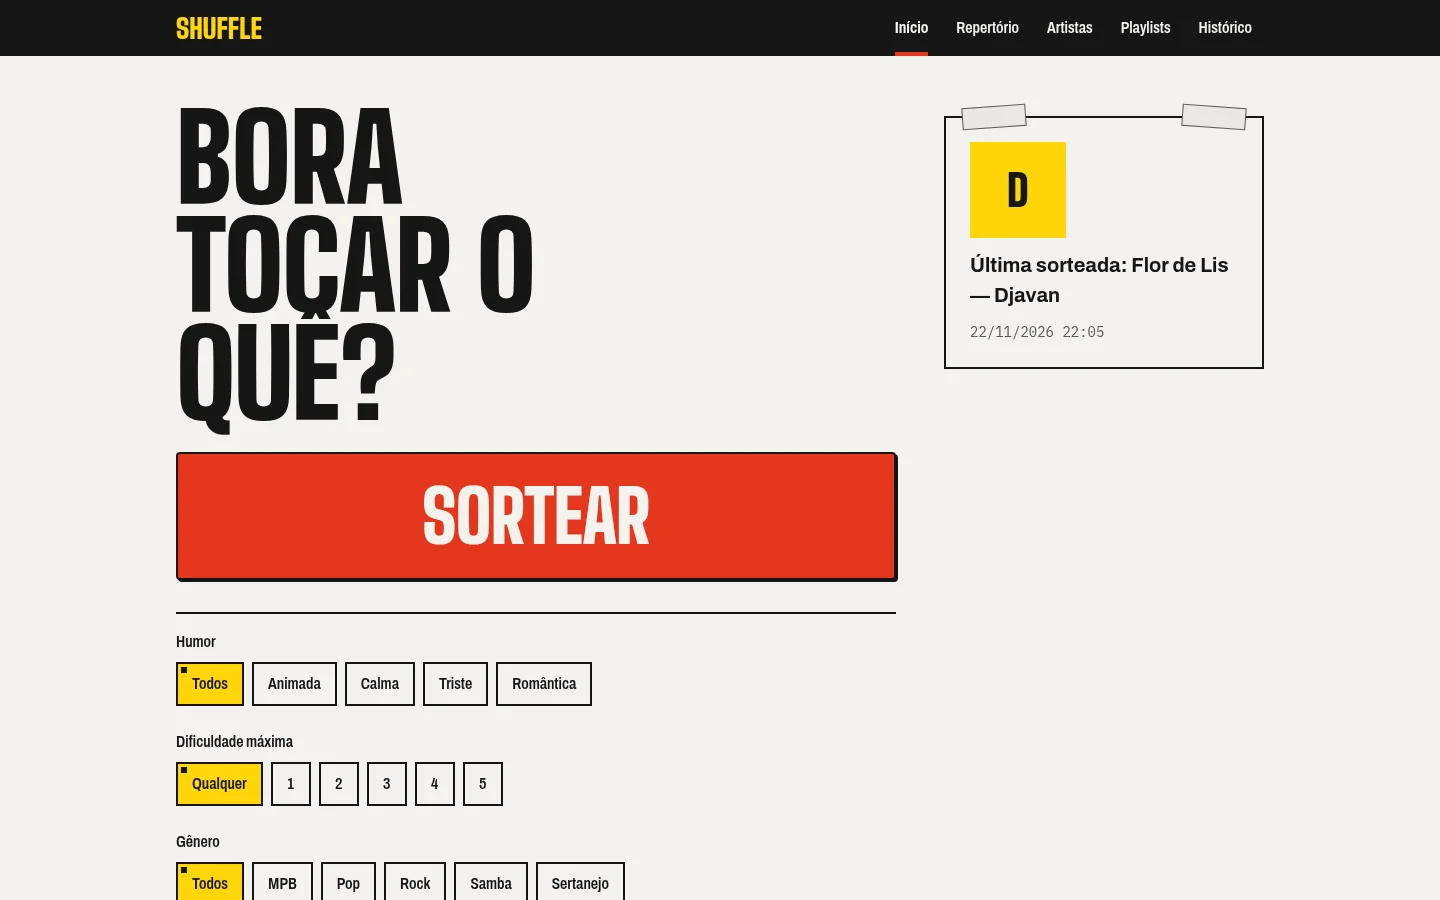
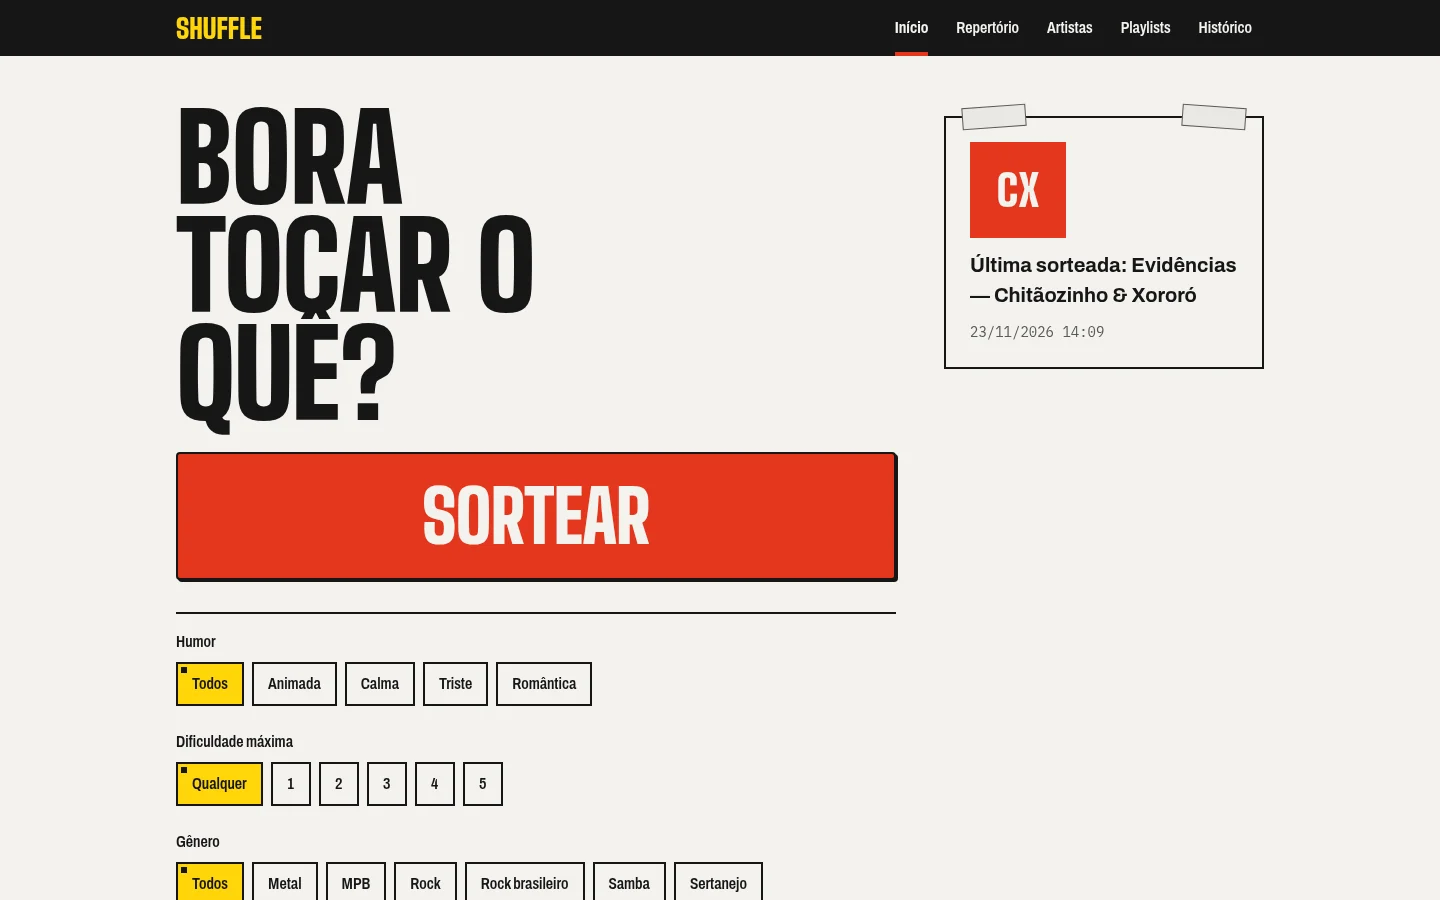
feat(links): grupo 6 - documentação, screenshots e integração
README descreve os três campos de link, os botões por link e a escolha de
player, o seed novo (com link para docs/links-verificados.md) e como conferir
os links antes de apresentar. Os 10 screenshots foram regenerados com o seed
novo; o resultado mostra Evidências com YouTube e Spotify.

Changed region(s): [[0.6562, 0.1556, 0.75, 0.28], [0.1875, 0.9644, 0.5312, 1.0], [0.6875, 0.28, 0.875, 0.3422]]

diff --git a/README.md b/README.md
@@ -1,6 +1,6 @@
 # Shuffle
 
-Sistema web para cadastrar as músicas que você **já conhece** e **sortear qual tocar** a seguir. O sorteio só usa músicas ativas, aceita filtros (gênero, humor, dificuldade máxima, artista, playlist), evita repetir as últimas N sorteadas e dá o dobro de chance às favoritas. A tela de histórico mostra as estatísticas: músicas mais tocadas, nunca sorteadas, média de notas e músicas por gênero. Quando o link da música sorteada é de um vídeo do YouTube (inclusive YouTube Music) ou de uma faixa do Spotify, o botão "Ouvir aqui" toca a música na própria tela; qualquer outro link abre em nova aba pelo "Abrir link", que fica sempre disponível.
+Sistema web para cadastrar as músicas que você **já conhece** e **sortear qual tocar** a seguir. O sorteio só usa músicas ativas, aceita filtros (gênero, humor, dificuldade máxima, artista, playlist), evita repetir as últimas N sorteadas e dá o dobro de chance às favoritas. A tela de histórico mostra as estatísticas: músicas mais tocadas, nunca sorteadas, média de notas e músicas por gênero. Cada música pode ter três links: um vídeo do YouTube (inclusive YouTube Music), uma faixa do Spotify e um "Outro link" (cifra, letra, busca). No resultado do sorteio há um botão para abrir cada link preenchido ("Abrir no YouTube", "Abrir no Spotify", "Abrir link") e o player embutido toca a música na própria tela: "Ouvir aqui" quando há um serviço, ou "Ouvir no YouTube" / "Ouvir no Spotify" quando há os dois.
 
 A interface segue o design system "Lambe-lambe", inspirado nos cartazes de show colados nos muros e na folha de setlist presa com fita no chão do palco: papel, tinta, amarelo e vermelho chapados, letras condensadas gigantes e listas com réguas no lugar de cartões. Funciona no celular a partir de 360 px, respeita a preferência de movimento reduzido e não depende de internet: fontes e ícones são servidos pelo próprio sistema.
 
@@ -38,7 +38,7 @@ pip install -r requirements.txt
 python seed.py
 ```
 
-Cria dados de exemplo para a demonstração: 8 artistas, 25 músicas (rock, MPB, samba, sertanejo e pop; os 4 humores; dificuldades de 1 a 5; 6 favoritas e 1 inativa) e as playlists "Roda de violão" e "Churrasco".
+Cria dados de exemplo para a demonstração: 18 artistas, 20 músicas (rock, rock brasileiro, metal, samba, sertanejo e MPB; os 4 humores; dificuldades de 1 a 5; 5 favoritas e 1 inativa) e as playlists "Roda de violão" e "Churrasco". Todas as músicas têm a faixa do Spotify e quatro têm vídeo do YouTube que toca no player ("Tempo Perdido", "Sonífera Ilha", "Trem das Onze" e "Evidências"); as demais ficam com uma busca do YouTube no "Outro link", porque os vídeos oficiais bloqueiam a incorporação. Os links foram conferidos no navegador e estão documentados em [`docs/links-verificados.md`](docs/links-verificados.md).
 
 - Pode ser rodado mais de uma vez: não duplica nada e não sobrescreve o que você editou.
 - Itens do seed que você excluiu **voltam a ser criados** se rodar de novo.
@@ -56,6 +56,17 @@ Abra http://127.0.0.1:5000. O banco SQLite é criado sozinho em `instance/shuffl
 ```bash
 python -m unittest
 ```
+
+## Comandos úteis
+
+Conferir se links do YouTube e do Spotify tocam no player embutido (precisa de internet e do Google Chrome; não faz parte dos testes automáticos):
+
+```bash
+python tools/verificar_links.py "https://youtu.be/<ID>" "https://open.spotify.com/track/<ID>"
+python tools/verificar_links.py --arquivo links.txt   # um link por linha
+```
+
+Para cada link, a ferramenta abre o player como o app abre e mostra `OK` ou `FALHA` com o texto que aparece no player (título e canal ou artista), para conferir se é a música certa. Vídeos que bloqueiam incorporação aparecem como `FALHA`. Foi com ela que os links do seed foram verificados (ver [`docs/links-verificados.md`](docs/links-verificados.md)).
 
 ## Zerar o banco
 
@@ -93,8 +104,8 @@ openspec validate --specs --strict
 
 - Feito para uso local por uma pessoa: não há login nem proteção CSRF. Não publique o servidor na internet sem adicionar isso e definir a variável de ambiente `SECRET_KEY`.
 - A anti-repetição vale para o histórico inteiro, independentemente dos filtros usados no sorteio.
-- **Player embutido na apresentação:** os links do seed são buscas do YouTube, que não têm player. Para mostrar o "Ouvir aqui", edite uma música e cole um link real de vídeo (`youtube.com/watch?v=…`, `youtu.be/…`, `youtube.com/shorts/…`, `music.youtube.com/watch?v=…`) ou de faixa do Spotify (`open.spotify.com/track/…` ou `open.spotify.com/intl-pt/track/…`).
-- O player só carrega depois do clique e precisa de internet nesse momento; a tela de resultado em si abre sem internet. Vários vídeos oficiais bloqueiam a incorporação e o Spotify toca só uma prévia de 30 s para quem não está logado no navegador: nesses casos, use o "Abrir link".
+- **Player embutido na apresentação:** com o seed, "Evidências", "Tempo Perdido", "Sonífera Ilha" e "Trem das Onze" mostram os dois players (YouTube e Spotify); as outras músicas têm só o Spotify. Para outros vídeos, edite a música e cole um link de vídeo (`youtube.com/watch?v=…`, `youtu.be/…`, `youtube.com/shorts/…`, `music.youtube.com/watch?v=…`) no campo YouTube ou de faixa (`open.spotify.com/track/…`, `open.spotify.com/intl-pt/track/…`) no campo Spotify.
+- O player só carrega depois do clique e precisa de internet nesse momento; a tela de resultado em si abre sem internet. Vários vídeos oficiais de música bloqueiam a incorporação e o Spotify toca só uma prévia de 30 s para quem não está logado no navegador: nesses casos, use "Abrir no YouTube" ou "Abrir no Spotify". O status de incorporação muda com o tempo; confira com `python tools/verificar_links.py` antes de apresentar.
 - Modo "Esquecidas", setlist, modo festa, CSV e desafio ficaram para trabalhos futuros (ver o `proposal.md` das mudanças em `openspec/changes/`).
 
 ## Créditos

diff --git a/openspec/changes/add-links-por-servico/tasks.md b/openspec/changes/add-links-por-servico/tasks.md
@@ -34,9 +34,9 @@ Referências: comportamento nas deltas `specs/musicas/spec.md` e `specs/sorteio/
 
 ## 6. Documentação e integração
 
-- [ ] 6.1 Atualizar o README: três campos de link; botões por link e escolha de player no resultado; o seed já traz links verificados (com link para `docs/links-verificados.md`); remover das limitações a orientação de colar link real para demonstrar, deixando a observação sobre vídeos que bloqueiam incorporação
-- [ ] 6.2 Regenerar os 10 screenshots (a lista de músicas do seed mudou), com o resultado de uma música do seed que tenha os dois links; verificar abrindo os arquivos
-- [ ] 6.3 Rodar a suíte, `openspec validate add-links-por-servico --strict` e `openspec validate --all --strict`; verificar que tudo passa e que nenhum servidor ficou rodando; commitar o grupo
+- [x] 6.1 Atualizar o README: três campos de link; botões por link e escolha de player no resultado; o seed já traz links verificados (com link para `docs/links-verificados.md`); remover das limitações a orientação de colar link real para demonstrar, deixando a observação sobre vídeos que bloqueiam incorporação
+- [x] 6.2 Regenerar os 10 screenshots (a lista de músicas do seed mudou), com o resultado de uma música do seed que tenha os dois links; verificar abrindo os arquivos
+- [x] 6.3 Rodar a suíte, `openspec validate add-links-por-servico --strict` e `openspec validate --all --strict`; verificar que tudo passa e que nenhum servidor ficou rodando; commitar o grupo
 
 ## Workflow follow-up
 
